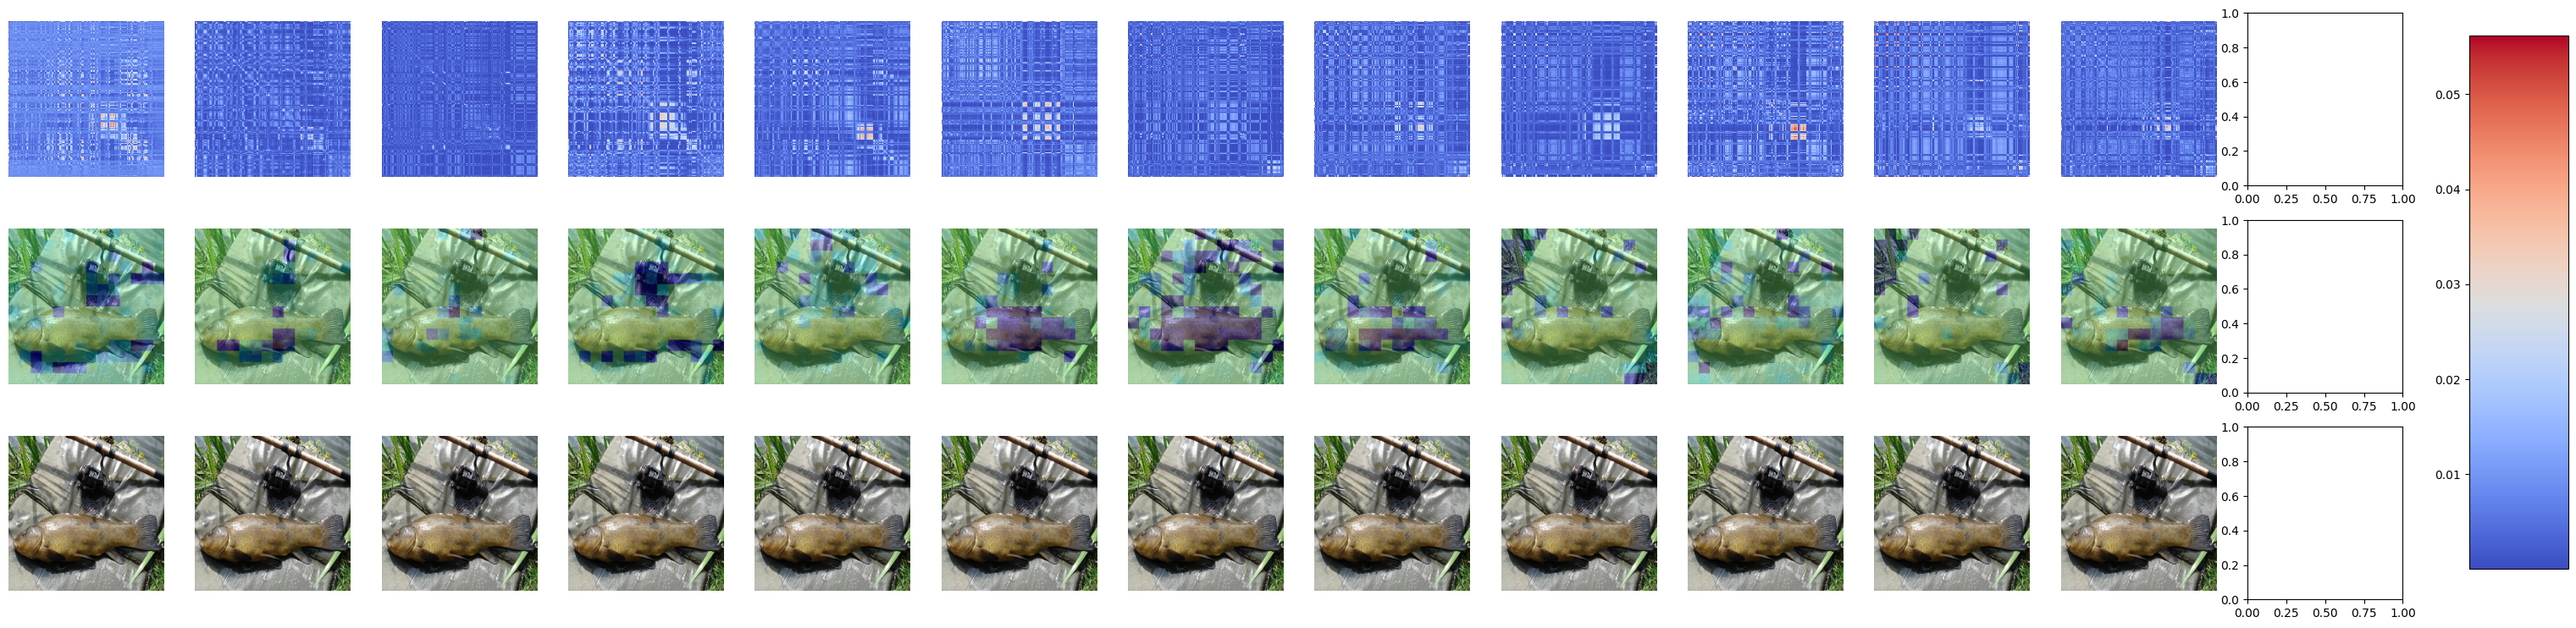
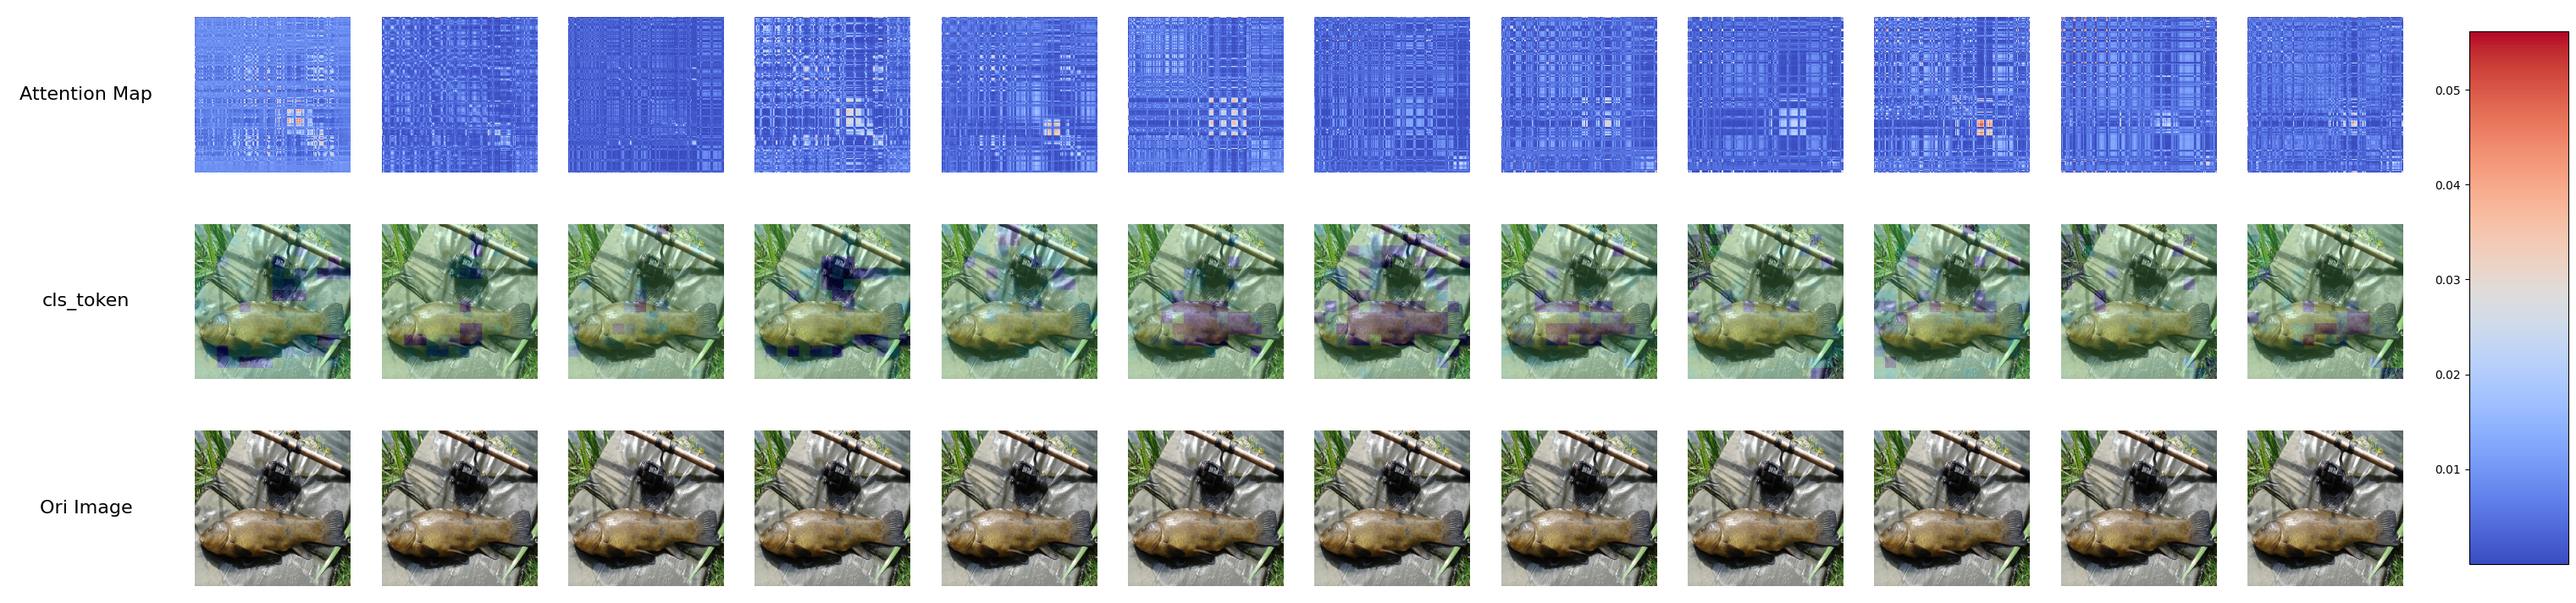
可视化完全体

diff --git a/src/vis/attn_vis.py b/src/vis/attn_vis.py
@@ -23,7 +23,7 @@ import torch.nn.functional as F
 font_path = '/usr/share/fonts/truetype/msttcorefonts/Times_New_Roman.ttf'
 font_prop = font_manager.FontProperties(fname=font_path, size=12)  # 可以指定字体大小
 
-def visualize_attention_weights(extractor, img_path, save_path='attention_map.png', alpha=0.7, contrast_factor=0.5):
+def visualize_attention_weights(extractor, img_path, save_path='attention_map.png', alpha=0.8, contrast_factor=0.5):
     test_transforms = transforms.Compose([
         transforms.Resize((224, 224)),
         transforms.ToTensor(),
@@ -44,13 +44,13 @@ def visualize_attention_weights(extractor, img_path, save_path='attention_map.pn
     attn_weights = attention_maps['attn_weights']
     num_layers = len(attn_weights)
     
-    # Add an extra row for the cropped original image
+    # New subplot layout with labels in the first column
     fig, axes = plt.subplots(nrows=3, ncols=num_layers+1, figsize=((num_layers+1) * 3, 9), dpi=100)
     
     # Set labels for the rows
     row_labels = ['Attention Map', 'cls_token', 'Ori Image']
     
-    for col, feature in enumerate(attn_weights):
+    for col, feature in enumerate(attn_weights, start=2):  # Start from the third column
         attn_matrix = feature['output'].squeeze(0)
         attn_matrix = attn_matrix / attn_matrix.sum(dim=-1, keepdim=True)
         attn_matrix = attn_matrix.to(dtype=torch.float32).cpu().numpy()
@@ -64,14 +64,12 @@ def visualize_attention_weights(extractor, img_path, save_path='attention_map.pn
         cls_attn_upsampled = np.kron(cls_attn, np.ones((16, 16)))
         
         # Plot the original attention map
-        ax = axes[0, col]
+        ax = axes[0, col - 1]
         im = ax.imshow(attn_matrix, cmap='coolwarm', aspect='equal')
         ax.axis('off')
-        if col == 0:
-            ax.set_ylabel(row_labels[0], fontsize=16)
         
         # Overlay the upsampled cls_token attention map on the original image
-        ax = axes[1, col]
+        ax = axes[1, col - 1]
         img_with_heatmap = np.array(img_ori)
         img_with_heatmap = cv2.resize(img_with_heatmap, (224, 224))
         heatmap = np.uint8(255 * cls_attn_upsampled)
@@ -79,19 +77,22 @@ def visualize_attention_weights(extractor, img_path, save_path='attention_map.pn
         img_with_heatmap = cv2.addWeighted(img_with_heatmap, alpha, heatmap, 1 - alpha, 0)
         ax.imshow(img_with_heatmap)
         ax.axis('off')
-        if col == 0:
-            ax.set_ylabel(row_labels[1], fontsize=16)
         
         # Add a cropped original image
-        ax = axes[2, col]
+        ax = axes[2, col - 1]
         cropped_img = cv2.resize(np.array(img_ori), (224, 224))  # Replace this with actual cropping logic if needed
         ax.imshow(cropped_img)
         ax.axis('off')
-        if col == 0:
-            ax.set_ylabel(row_labels[2], fontsize=16)
     
-    # Adjust the figure and add a colorbar
+    # Place the labels in the first column of each row
+    for i, label in enumerate(row_labels):
+        axes[i, 0].axis('off')  # Turn off axis
+        axes[i, 0].text(0.5, 0.5, label, va='center', ha='center', fontsize=16, transform=axes[i, 0].transAxes)
+    
+    # Adjust the figure layout
     fig.subplots_adjust(right=0.85, hspace=0.2, wspace=0.2)
+    
+    # Add a colorbar
     cbar_ax = fig.add_axes([0.87, 0.15, 0.03, 0.7])
     cbar = fig.colorbar(im, cax=cbar_ax)
     cbar.ax.tick_params(labelsize=10)
